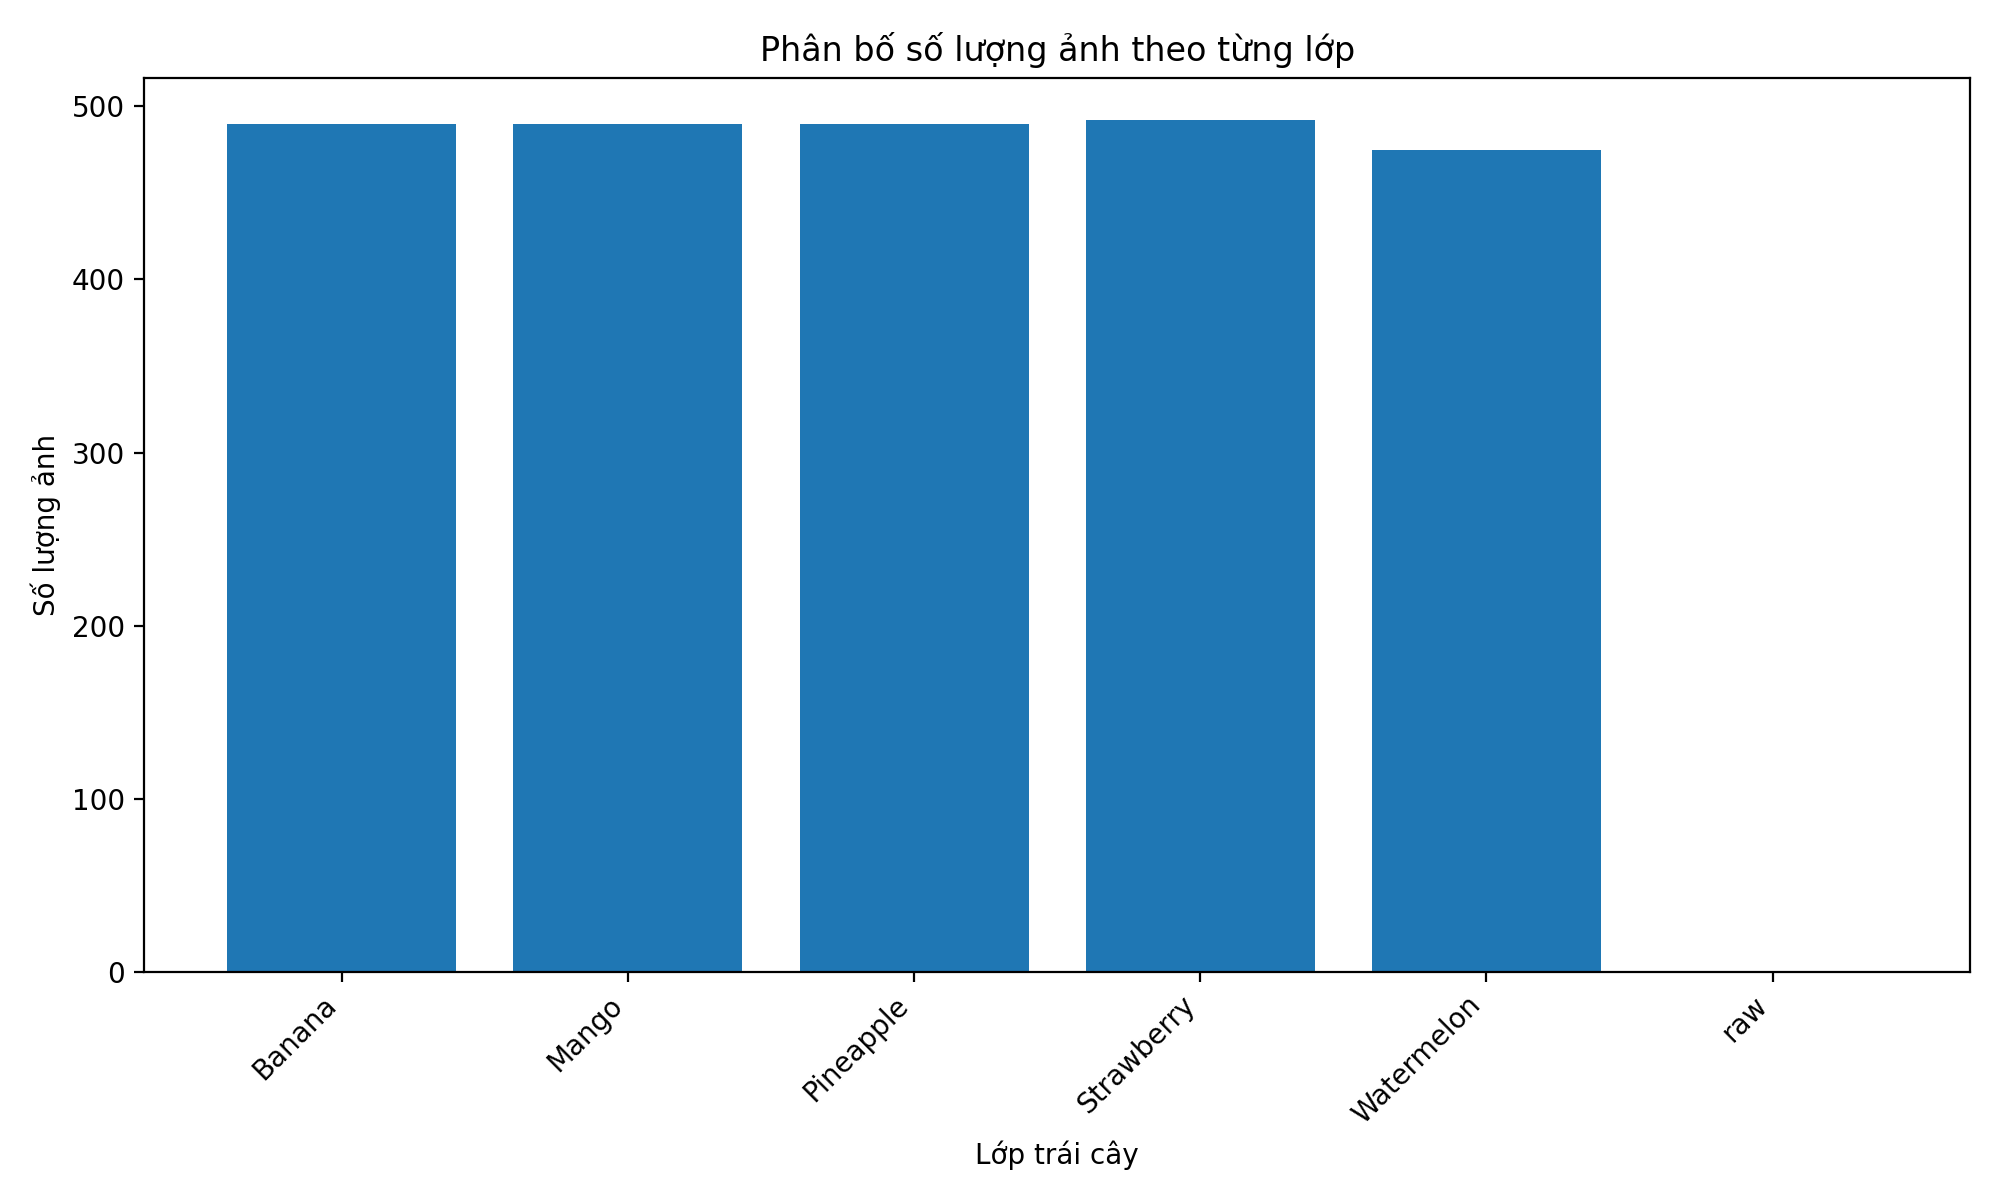
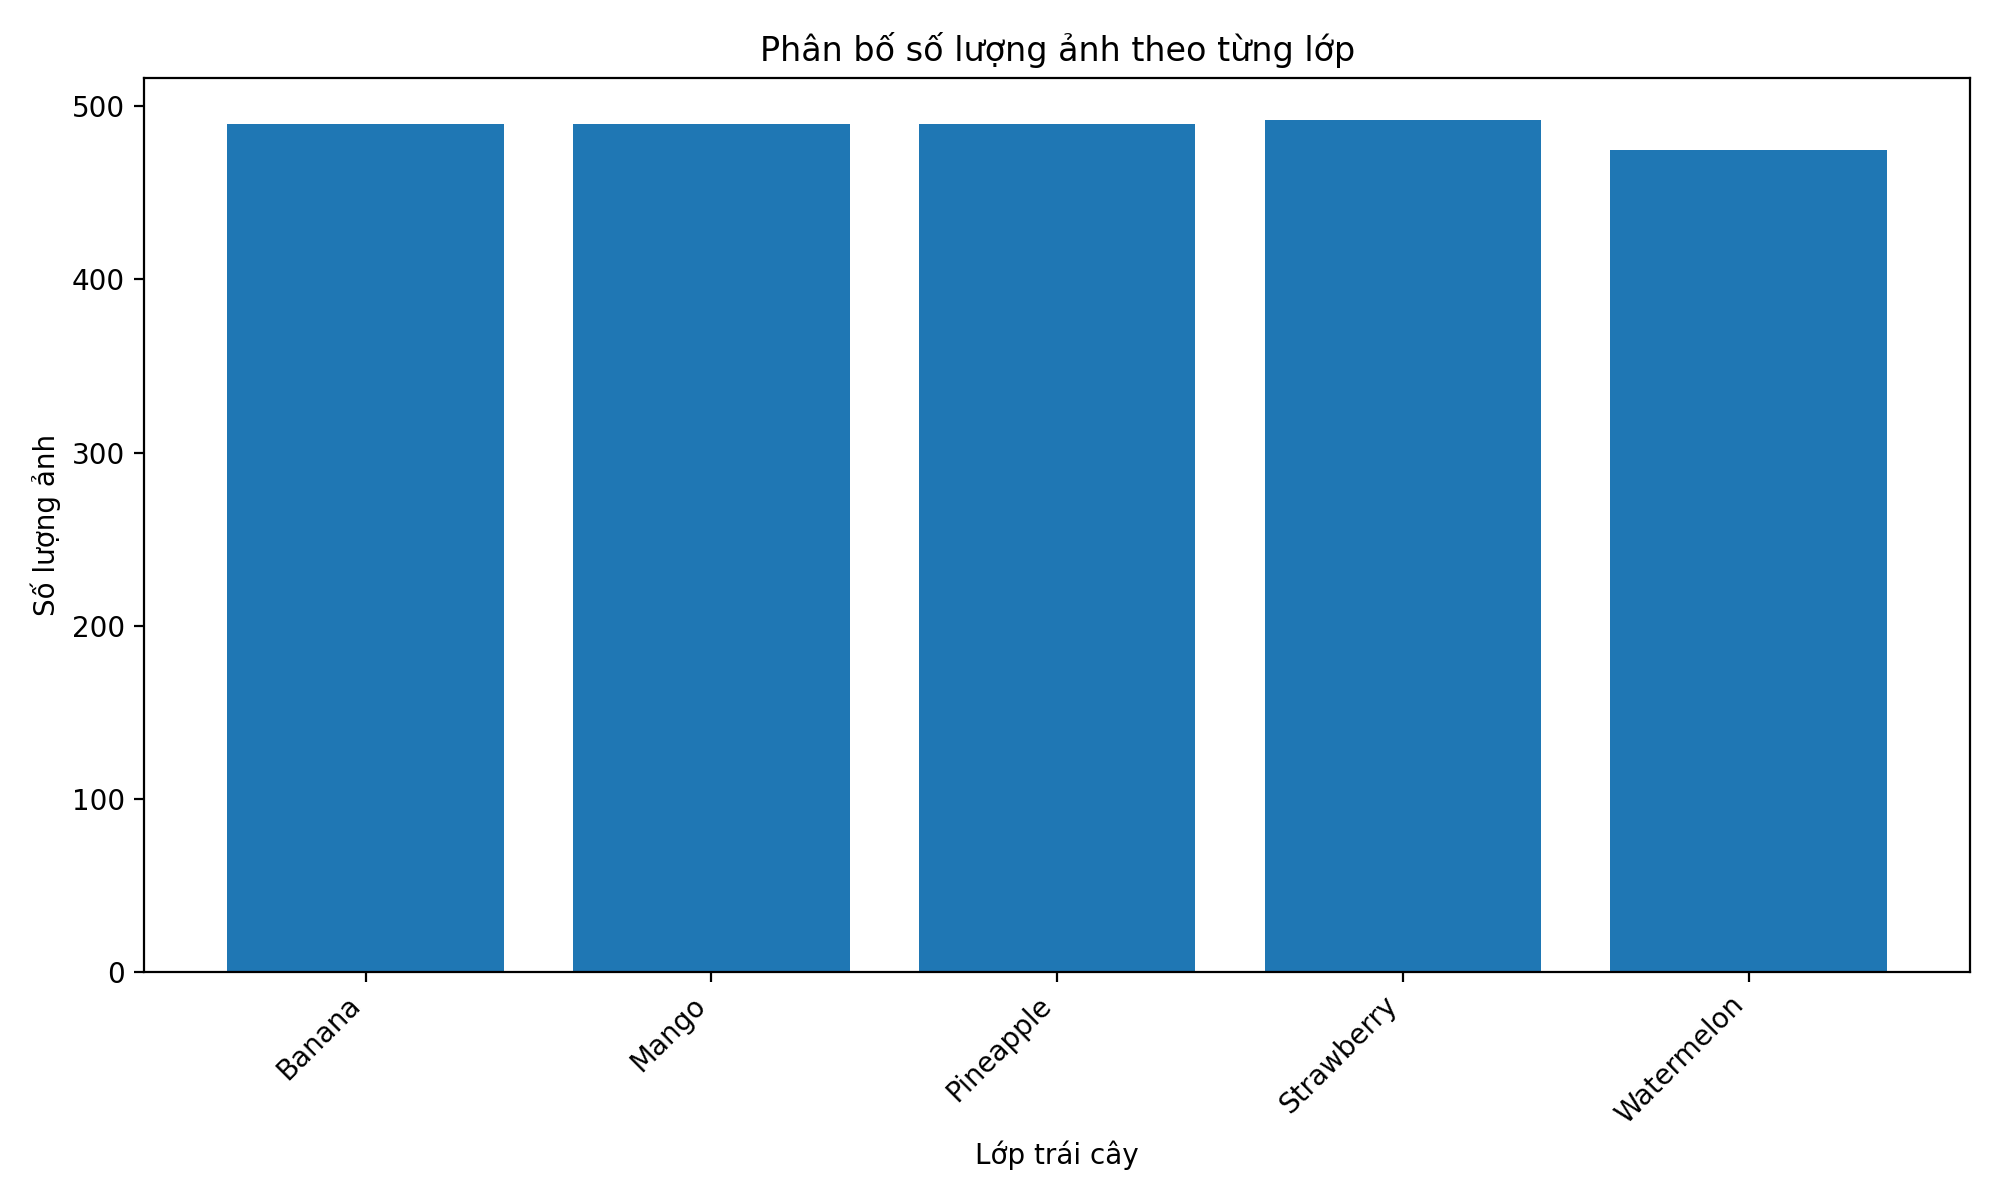
summary project first

diff --git a/main.py b/main.py
@@ -66,15 +66,24 @@ def print_artifact_status(status: dict) -> None:
 
 
 '''
-    Kiến trúc chạy pipeline dữ liệu ảnh
+    Kiến trúc chạy pipeline dữ liệu ảnh -> kiểm tra dữ liệu ảnh
 '''
 
 
 def run_data_pipeline() -> None:
 
     print("\n ---- Thực thi pipeline đánh giá mô hình")
-    print("[INFO] Phần xử lý dữ liệu do thành viên phụ trách dữ liệu hoàn thiện.")
-    print("[INFO] Hiện train_cnn.py đang đọc trực tiếp từ data/raw.")
+    
+    try:
+        from src.preprocess_images import run_data_preprocessing
+
+        run_data_preprocessing()
+
+        print("\n[Ok] Pipeline dữ liệu hoàn tất")
+    
+    except Exception:
+        print("[Error] Không chạy được pipeline dữ liệu ảnh")
+        traceback.print_exc()
     
 
 '''
@@ -99,23 +108,23 @@ def run_train_pipeline() -> None:
     Đánh giá mô hình CNN
 ''' 
 
-def run_evalute_pipeline() -> None:
+def run_evaluate_pipeline() -> None:
 
     print("\n Đánh giá mô hình")
 
     try:
-        from src.evaluate_cnn import main_test_fruit_predict_evaluate
+        from src.evaluate_cnn import evaluate_model
 
-        main_test_fruit_predict_evaluate()
+        evaluate_model()
 
     except Exception:
         print("[Error] Không chạy được elvalute_cnn")
         traceback.print_exc()
 
     try:
-        from src.visualize_results import main_test_visualize_results
+        from src.visualize_results import visualize_samples
 
-        main_test_visualize_results()
+        visualize_samples()
 
     except Exception:
         print("[Error] Không chạy được visualize_result")
@@ -141,9 +150,9 @@ def run_predict_pipeline(image_path: str | None = None) -> None:
         print("Chưa truyền đường dẫn ảnh. Chạy smoke test predict_image")
     
     try:
-        from src.predict_image import main_test_predict_image
+        from src.predict_image import predict_single_image
 
-        main_test_predict_image()
+        predict_single_image(image_path=image_path)
 
     except Exception:
         print("[Error] không chạy được predict_image")
@@ -161,12 +170,23 @@ def run_self_test() -> None:
 
     print_artifact_status(status=status)
 
-    run_data_pipeline()
-    run_train_pipeline()
-    run_evalute_pipeline()
-    run_predict_pipeline()
+    try:
+        from src.preprocess_images import main_test_preprocess_images
+        from src.predict_image import predict_single_image
+        from src.evaluate_cnn import evaluate_model
+        from src.visualize_results import visualize_samples
+        from src.train_cnn import train
 
-    print("\n[OK] SELF TEST hoàn tất")
+        main_test_preprocess_images()
+
+        print("[OK] Import predict_single_image thành công")
+        print("[OK] Import evaluate_model thành công")
+        print("[OK] Import visualize_samples thành công")
+        print("[OK] Import  train thành công")
+
+    except Exception:
+        print("[Error] Selt-test import module bị lỗi")
+        traceback.print_exc()
 
 
 '''
@@ -183,7 +203,7 @@ def run_all_pipeline() -> None:
 
     run_data_pipeline()
     run_train_pipeline()
-    run_evalute_pipeline()
+    run_evaluate_pipeline()
 
     print("\n[Ok] Hoàn tất")
 

diff --git a/README.md b/README.md
@@ -7,7 +7,7 @@ py -m venv .venv
 source .venv/Scripts/activate
 pip install -r requirements.txt
 ```
-
+## Chạy cli
 ``` command
 python app_fruit_cli.py self_test
 python app_fruit_cli.py data
@@ -16,6 +16,47 @@ python app_fruit_cli.py evaluate
 python app_fruit_cli.py predict --image_path data/test_images/test.jpg
 python app_fruit_cli.py all
 ```
+## Dataset
+
+1. Kiểm tra dữ liệu ảnh gốc.
+```
+py src/preprocess_images.py
+```
+2. Chia dữ liệu thành train/validation/test.
+```
+py src/split_image_data.py
+```
+3. Kiểm tra dữ liệu sau khi chia.
+```
+py src/check_processed_dataset.py
+```
+
+## Huấn luyện mô hỉnh
+
+```
+src/train_cnn.py
+```
+
+## Thực thi in kết quả
+
+1. Đánh giá và Kiểm thử
+```
+python src/evaluate_cnn.py
+```
+2. Chức năng: Sử dụng model đã train để dự đoán toàn bộ tập test. Xuất ra các báo cáo đánh giá độ chính xác (Classification Report), Ma trận nhầm lẫn (Confusion Matrix) và danh sách các ảnh dự đoán sai (wrong_predictions.csv).
+```
+python src/visualize_results.py
+```
+3. Chức năng: Lấy ngẫu nhiên một lưới ảnh (3x3) trong tập test, đưa vào model dự đoán và xuất ra một tấm hình trực quan so sánh nhãn thực tế với nhãn dự đoán.
+python src/predict_image.py --image "đường_dẫn_tới_ảnh"
+- Chức năng: Test mô hình với một tấm ảnh lẻ bất kỳ. Trả về tên loại trái cây dự đoán kèm theo % độ tin cậy. 
+- Ví dụ: 
+```
+python src/predict_image.py --image "data/processed/test/Banana/36_100.jpg"
+```
+
+
+
 
 ## 1. Tổng quan source code
 

diff --git a/reports/01_data_profile/dataset_readme.md b/reports/01_data_profile/dataset_readme.md
@@ -10,7 +10,7 @@ Mỗi thư mục con tương ứng với một lớp trái cây.
 
 ## 2. Số lớp và số ảnh
 
-- Số lớp: 6
+- Số lớp: 5
 - Tổng số ảnh trong data/raw: 2437
 - Số ảnh lỗi phát hiện: 0
 
@@ -22,7 +22,6 @@ class_name  num_images
  Pineapple         490
 Strawberry         492
 Watermelon         475
-       raw           0
 
 ## 4. Kiểm tra ảnh lỗi
 
